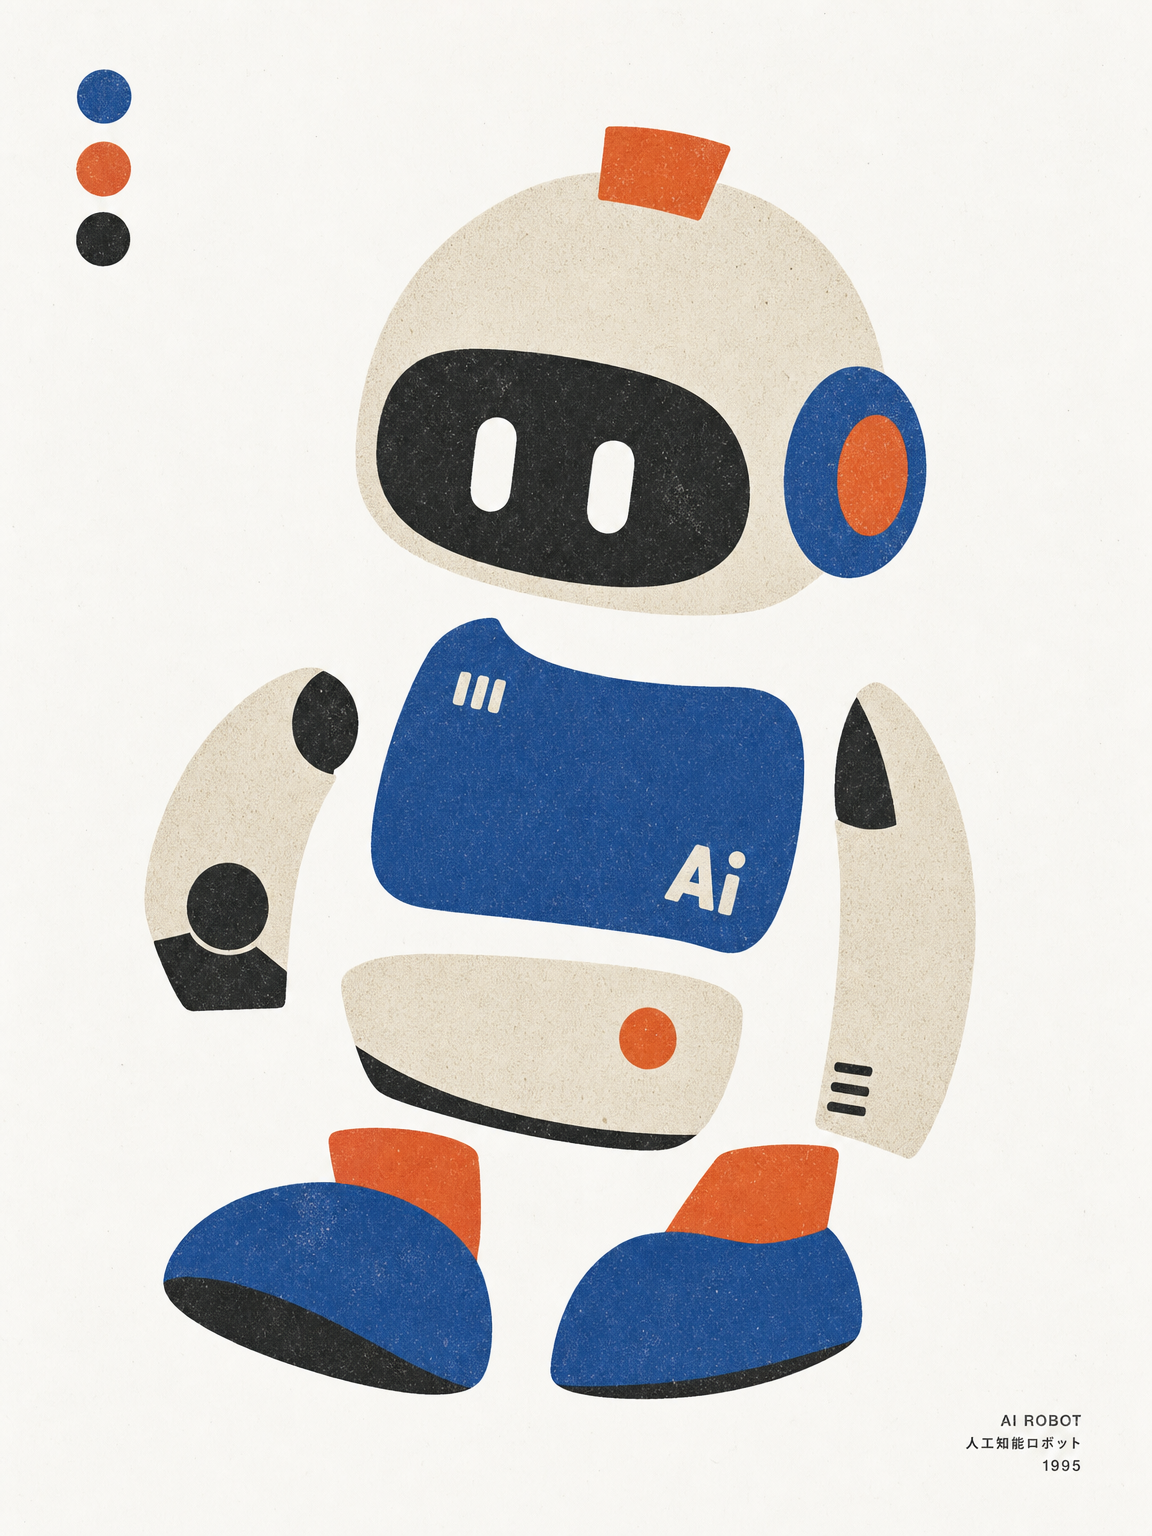
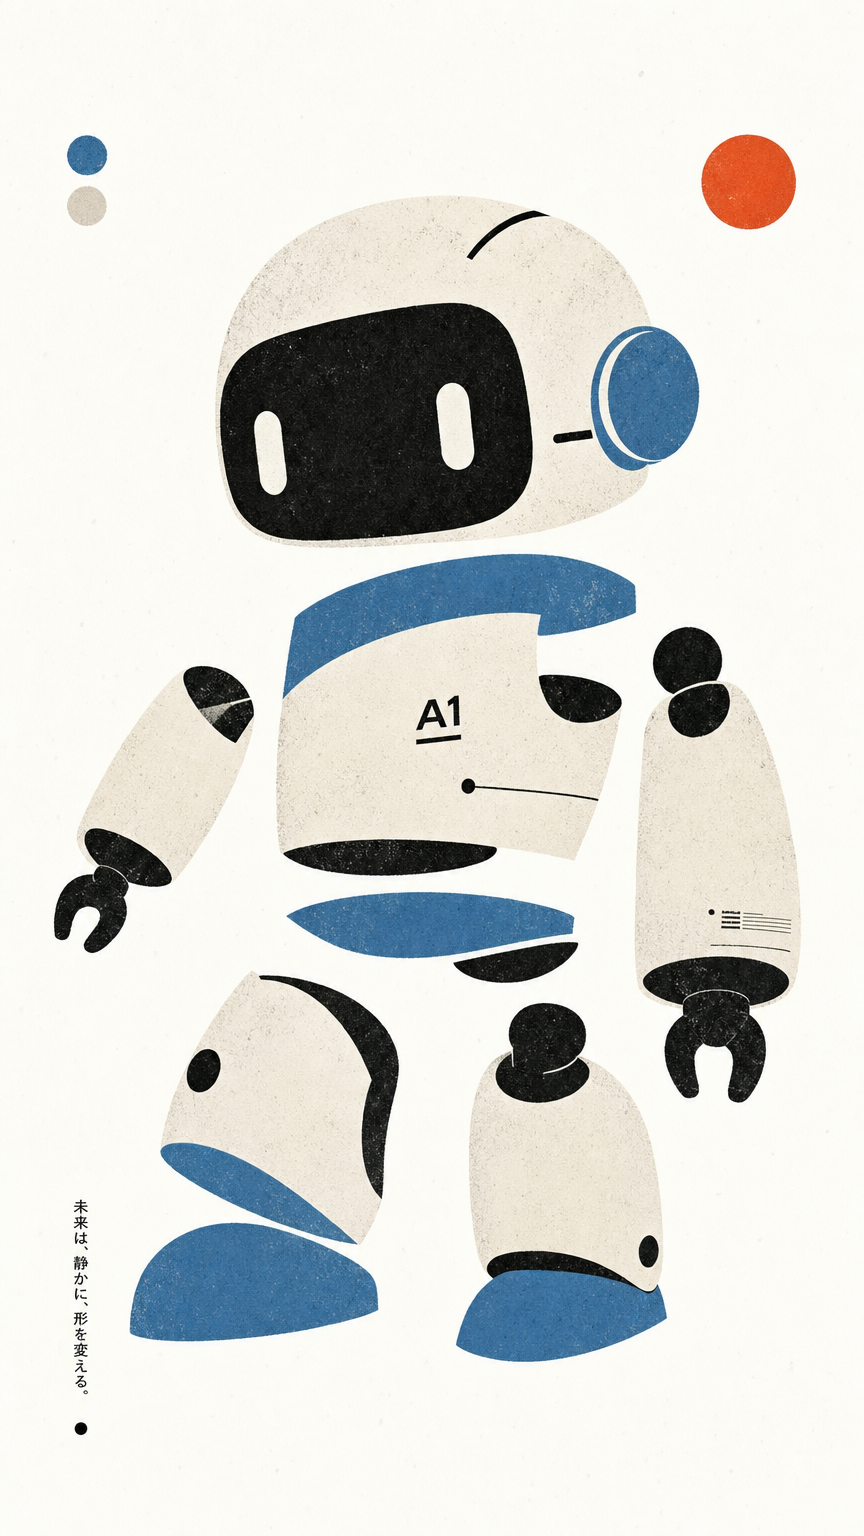
add 4 templates (HK travel portrait / plush soda can / PERCEIVE editorial / smoky grey-green illustration) + fix 2 ratios to 9:16

diff --git a/README.md b/README.md
@@ -48,6 +48,8 @@
 <tr>
 <td width="25%"><img src="gallery/高密度手绘线描.png" alt="高密度手绘线描"><br><sub><b>被 AI 理顺的业务流程</b><br><i>高密度手绘线描</i></sub></td>
 <td width="25%"><img src="gallery/艺术展览级创意.png" alt="艺术展览级创意"><br><sub><b>数据生命体</b><br><i>艺术展览级创意</i></sub></td>
+<td width="25%"><img src="gallery/街头编辑拼贴海报.png" alt="街头编辑拼贴海报"><br><sub><b>PERCEIVE</b><br><i>街头编辑拼贴海报</i></sub></td>
+<td width="25%"><img src="gallery/毛绒汽水罐产品.png" alt="毛绒汽水罐产品"><br><sub><b>毛绒汽水罐</b><br><i>毛绒汽水罐产品</i></sub></td>
 </tr>
 </table>
 
@@ -69,6 +71,7 @@
 <tr>
 <td width="25%"><img src="gallery/水彩环形放射.png" alt="水彩环形放射"><br><sub><b>智能绽放</b><br><i>水彩环形放射</i></sub></td>
 <td width="25%"><img src="gallery/祝笺仪式感插画.png" alt="祝笺仪式感插画"><br><sub><b>智能纪元</b><br><i>祝笺仪式感插画</i></sub></td>
+<td width="25%"><img src="gallery/柔焦烟灰绿插画.png" alt="柔焦烟灰绿插画"><br><sub><b>雾中少女</b><br><i>柔焦烟灰绿插画</i></sub></td>
 </tr>
 </table>
 
@@ -168,6 +171,7 @@
 <table>
 <tr>
 <td width="25%"><img src="gallery/柔光CCD夜色街拍.png" alt="柔光CCD夜色街拍"><br><sub><b>夜色都市街拍</b><br><i>柔光CCD夜色街拍</i></sub></td>
+<td width="25%"><img src="gallery/香港夜景全身旅拍.png" alt="香港夜景全身旅拍"><br><sub><b>香港维港夜景旅拍</b><br><i>香港夜景全身旅拍</i></sub></td>
 </tr>
 </table>
 
